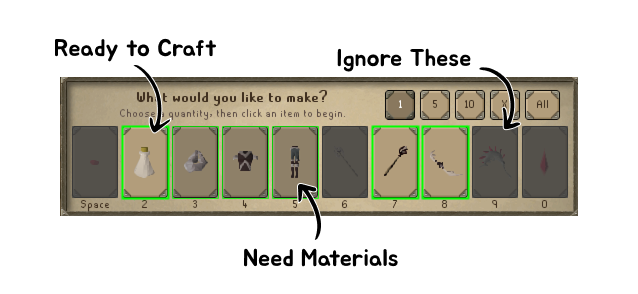
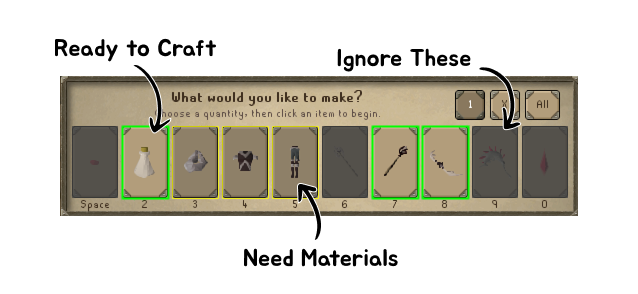
use interface id, additional options

diff --git a/src/main/java/com/trs/overlay/CraftingOverlay.java b/src/main/java/com/trs/overlay/CraftingOverlay.java
@@ -5,21 +5,39 @@ import javax.inject.Inject;
 
 import com.trs.GauntletPluginConfig;
 import com.trs.model.CraftingState;
+import com.trs.model.CraftingCompleteBehaviour;
 import com.trs.service.CraftingService;
 import com.trs.service.LocationService;
 
 import net.runelite.api.Client;
+import net.runelite.api.gameval.InterfaceID;
 import net.runelite.api.widgets.Widget;
 import net.runelite.client.ui.overlay.Overlay;
 import net.runelite.client.ui.overlay.OverlayLayer;
 import net.runelite.client.ui.overlay.OverlayPosition;
 
 public class CraftingOverlay extends Overlay {
-  private static final int CRAFTING_WIDGET = 270;
-  private static final int CRAFTING_TEXT_WIDGET = 5;
-  private static final int CRAFTING_FIRST_OPTION_WIDGET = 14;
-  private static final int CRAFTING_OPTION_COUNT = 10;
   private static final String ACTION_TEXT = "What would you like to make?";
+  private static final int[] CRAFTING_OPTION_WIDGETS = {
+    InterfaceID.Skillmulti.A,
+    InterfaceID.Skillmulti.B,
+    InterfaceID.Skillmulti.C,
+    InterfaceID.Skillmulti.D,
+    InterfaceID.Skillmulti.E,
+    InterfaceID.Skillmulti.F,
+    InterfaceID.Skillmulti.G,
+    InterfaceID.Skillmulti.H,
+    InterfaceID.Skillmulti.I,
+    InterfaceID.Skillmulti.J,
+    InterfaceID.Skillmulti.K,
+    InterfaceID.Skillmulti.L,
+    InterfaceID.Skillmulti.M,
+    InterfaceID.Skillmulti.N,
+    InterfaceID.Skillmulti.O,
+    InterfaceID.Skillmulti.P,
+    InterfaceID.Skillmulti.Q,
+    InterfaceID.Skillmulti.R,
+  };
 
   private final Client client;
   private final CraftingService service;
@@ -42,18 +60,34 @@ public class CraftingOverlay extends Overlay {
   public Dimension render(Graphics2D graphics2D) {
     if (!locationService.isInGauntlet()) return null;
 
-    if (!isCrafting()) return null;
+    // if (!isCrafting()) return null;
 
-    Widget root = client.getWidget(CRAFTING_WIDGET, 0);
+    Widget root = client.getWidget(InterfaceID.Skillmulti.BOTTOM);
     if (root == null || root.isHidden()) {
         return null;
     }
 
-    for (int i = 0; i < CRAFTING_OPTION_COUNT; i++) {
-      Widget childWidget = client.getWidget(CRAFTING_WIDGET, CRAFTING_FIRST_OPTION_WIDGET + i);
-      if (childWidget != null && !childWidget.isHidden()) {
-        var craftingState = service.getCraftingState(i);
-        renderOverlay(graphics2D, childWidget, craftingState);
+    for (int i = 0; i < CRAFTING_OPTION_WIDGETS.length; i++) {
+      Widget childWidget = client.getWidget(CRAFTING_OPTION_WIDGETS[i]);
+      if (childWidget == null || childWidget.isHidden()) continue;
+
+      var craftingState = service.getCraftingState(i);
+      renderOverlay(graphics2D, childWidget, craftingState);
+
+      if (craftingState == CraftingState.COMPLETE) {
+        CraftingCompleteBehaviour behaviour = config.craftingCompleteBehaviour();
+        switch (behaviour) {
+          case DISABLE:
+            childWidget.clearActions();
+            childWidget.revalidate();
+            break;
+          case HIDE:
+            childWidget.setHidden(true);
+            childWidget.revalidate();
+            break;
+          case DEFAULT:
+            break;
+        }
       }
     }
 
@@ -92,7 +126,7 @@ public class CraftingOverlay extends Overlay {
   }
 
   private boolean isCrafting() {
-    Widget childWidget = client.getWidget(CRAFTING_WIDGET, CRAFTING_TEXT_WIDGET);
+    Widget childWidget = client.getWidget(InterfaceID.Skillmulti.TITLE);
     return childWidget != null
       && childWidget.getText() != null
       && childWidget.getText().equalsIgnoreCase(ACTION_TEXT);

diff --git a/src/main/java/com/trs/service/CraftingService.java b/src/main/java/com/trs/service/CraftingService.java
@@ -5,8 +5,8 @@ import javax.inject.Inject;
 import javax.inject.Singleton;
 
 import net.runelite.api.Client;
-import net.runelite.api.InventoryID;
 import net.runelite.api.ItemContainer;
+import net.runelite.api.gameval.InventoryID;
 
 import com.trs.model.CraftingMaterial;
 import com.trs.model.CraftingTieredItem;
@@ -114,7 +114,7 @@ public class CraftingService {
     int craftingCountTarget = craftingItem.getCraftingSetting(config);
 
     int count = 0;
-    ItemContainer inventory = client.getItemContainer(InventoryID.INVENTORY);
+    ItemContainer inventory = client.getItemContainer(InventoryID.INV);
     if (inventory != null) {
       for (var item : inventory.getItems()) {
         if (craftingItem.hasItemID(item.getId())) {
@@ -135,8 +135,8 @@ public class CraftingService {
   }
 
   private boolean hasAnyItem(int[] itemIDs) {
-    ItemContainer equipment = client.getItemContainer(InventoryID.EQUIPMENT);
-    ItemContainer inventory = client.getItemContainer(InventoryID.INVENTORY);
+    ItemContainer equipment = client.getItemContainer(InventoryID.WORN);
+    ItemContainer inventory = client.getItemContainer(InventoryID.INV);
 
     for (int itemID : itemIDs) {
       if (equipment != null && equipment.contains(itemID)) return true;
@@ -146,7 +146,7 @@ public class CraftingService {
   }
 
   private boolean hasMaterials(CraftingMaterial[] materials) {
-    ItemContainer inventory = client.getItemContainer(InventoryID.INVENTORY);
+    ItemContainer inventory = client.getItemContainer(InventoryID.INV);
     if (inventory == null) return false;
 
     for (CraftingMaterial material : materials) {

diff --git a/src/main/java/com/trs/GauntletPluginConfig.java b/src/main/java/com/trs/GauntletPluginConfig.java
@@ -7,6 +7,7 @@ import net.runelite.client.config.ConfigItem;
 import net.runelite.client.config.ConfigSection;
 import net.runelite.client.config.Alpha;
 import com.trs.model.CraftingSetting;
+import com.trs.model.CraftingCompleteBehaviour;
 
 @ConfigGroup("gauntlet-crafting")
 public interface GauntletPluginConfig extends Config
@@ -190,7 +191,7 @@ public interface GauntletPluginConfig extends Config
 	)
 	@Alpha
 	default Color craftingHighlightMissingMaterialsOutlineColor() {
-		return new Color(0, 255, 0, 200);
+		return new Color(255, 255, 0, 200);
 	}
 	
 	@ConfigItem(
@@ -236,5 +237,16 @@ public interface GauntletPluginConfig extends Config
 	)
 	default int craftingHighlightCompleteStroke() {
 		return 0;
+	}
+
+	@ConfigItem(
+		position = 9,
+		keyName = "craftingCompleteBehaviour",
+		name = "Done behaviour",
+		description = "Choose the behaviour for completed crafting options",
+		section = sectionColors
+	)
+	default CraftingCompleteBehaviour craftingCompleteBehaviour() {
+		return CraftingCompleteBehaviour.DEFAULT;
 	}
 }

diff --git a/src/main/java/com/trs/model/CraftingItem.java b/src/main/java/com/trs/model/CraftingItem.java
@@ -1,10 +1,6 @@
 package com.trs.model;
 
-import java.util.Set;
-import java.util.HashSet;
-
 import net.runelite.api.gameval.ItemID;
-
 import com.trs.data.GauntletItems;
 
 public enum CraftingItem {

diff --git a/src/main/java/com/trs/model/CraftingCompleteBehaviour.java b/src/main/java/com/trs/model/CraftingCompleteBehaviour.java
@@ -1,0 +1,7 @@
+package com.trs.model;
+
+public enum CraftingCompleteBehaviour {
+    DEFAULT,
+    DISABLE,
+    HIDE
+}
